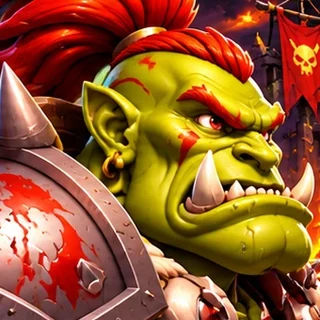
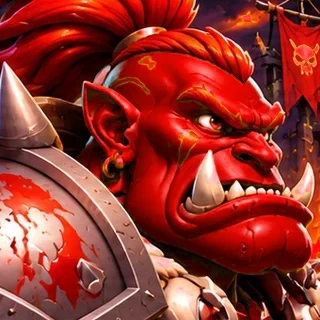
Shooters hit the castle from their range again; synced attack beats; card draw pop animation; cleaner castle cracks drawn on the castle art; visible Paladin dome; Red Orc fully red
Claude-Session: https://claude.ai/code/session_019FHBnxKyTVWzaJqkftQpoS

diff --git a/web/js/render.js b/web/js/render.js
@@ -359,6 +359,37 @@
       for (let i = 0; i < n; i++) { const a = Math.random() * TAU, sp = 160 + Math.random() * 260; this.fx.push({ k: 'spark', x, y, vx: Math.cos(a) * sp, vy: Math.sin(a) * sp - 120, t: 0, d: 0.25 + Math.random() * 0.15 }); }
     }
 
+    // rachaduras desenhadas sobre a própria arte do castelo (só onde há pedra), em 3 etapas
+    crackLayer(im, art, stage) {
+      this.crackCache = this.crackCache || {};
+      const key = art.src + ':' + stage;
+      if (this.crackCache[key]) return this.crackCache[key];
+      const W = Math.round(art.w), H = Math.round(art.h), c = document.createElement('canvas'); c.width = W; c.height = H;
+      const g = c.getContext('2d');
+      let seed = 7; const rnd = () => ((seed = (seed * 16807) % 2147483647) / 2147483647);
+      // pontos de partida na parede da frente (abaixo da sacada), proporcionais ao tamanho da arte
+      const starts = [[0.42, 0.56], [0.28, 0.72], [0.55, 0.7], [0.2, 0.5], [0.48, 0.84], [0.33, 0.62]];
+      const crack = (x, y, ang, len, w, depth) => {
+        let px = x, py = y;
+        const pts = [[px, py]];
+        const n = 6 + Math.floor(rnd() * 4);
+        for (let i = 0; i < n; i++) { ang += (rnd() - 0.5) * 0.9; px += Math.cos(ang) * len / n; py += Math.sin(ang) * len / n; pts.push([px, py]); }
+        for (const [col, lw, dx, dy] of [['rgba(255,235,210,.35)', w + 2, 1.5, 1.5], ['rgba(20,10,18,.9)', w, 0, 0]]) {
+          for (let i = 1; i < pts.length; i++) { // fica mais fina na ponta
+            g.strokeStyle = col; g.lineCap = 'round'; g.lineWidth = Math.max(0.8, lw * (1 - i / pts.length));
+            g.beginPath(); g.moveTo(pts[i - 1][0] + dx, pts[i - 1][1] + dy); g.lineTo(pts[i][0] + dx, pts[i][1] + dy); g.stroke();
+          }
+        }
+        if (depth > 0) for (let k = 0; k < 2; k++) { const p = pts[2 + Math.floor(rnd() * (pts.length - 3))]; crack(p[0], p[1], ang + (rnd() < 0.5 ? -1 : 1) * (0.6 + rnd() * 0.5), len * 0.5, w * 0.6, depth - 1); }
+      };
+      const n = stage * 2;
+      for (let i = 0; i < n; i++) { const [sx, sy] = starts[i]; crack(sx * W, sy * H, Math.PI * (0.35 + rnd() * 0.5), H * (0.1 + rnd() * 0.06), 5, 2); }
+      // escurecido leve (fuligem) nas etapas mais graves
+      if (stage >= 2) { const gr = g.createRadialGradient(W * 0.4, H * 0.65, 0, W * 0.4, H * 0.65, W * 0.5); gr.addColorStop(0, 'rgba(30,20,25,' + 0.12 * stage + ')'); gr.addColorStop(1, 'rgba(30,20,25,0)'); g.fillStyle = gr; g.fillRect(0, 0, W, H); }
+      g.globalCompositeOperation = 'destination-in'; g.drawImage(im, 0, 0, W, H); // só dentro do castelo
+      return (this.crackCache[key] = c);
+    }
+
     // silhueta branca do quadro atual (piscada de dano)
     whiteFrame(sheet, sx, sy, w, h) {
       if (!this.tint) { this.tint = document.createElement('canvas'); }
@@ -515,21 +546,16 @@
         const im = BB.art.image(art.src);
         if (im.complete && im.naturalWidth) {
           g.save(); if (owner === 1) { g.translate(AW, 0); g.scale(-1, 1); }
-          g.drawImage(im, art.x, art.y, art.w, art.h); g.restore();
+          g.drawImage(im, art.x, art.y, art.w, art.h);
+          const st = (this.crack && this.crack[owner]) || 0;
+          if (st > 0) { const cv = this.crackLayer(im, art, st); if (cv) g.drawImage(cv, art.x, art.y, art.w, art.h); }
+          g.restore();
         }
         const gx = art.x + art.gate[0], gy = art.y + art.gate[1];
         c.gx = owner === 1 ? AW - gx : gx; c.gy = gy;
       }
       const w = c.x1 - c.x0, h = c.y1 - c.y0, cx = (c.x0 + c.x1) / 2;
       const crack = (this.crack && this.crack[owner]) || 0;
-      if (crack > 0) { // rachaduras na parede do castelo
-        g.save(); if (owner === 1) { g.translate(AW, 0); g.scale(-1, 1); }
-        g.strokeStyle = 'rgba(25,15,20,.85)'; g.lineWidth = 4; g.lineCap = 'round';
-        const C = [[[170, 420], [195, 470], [180, 520], [210, 575]], [[90, 560], [130, 600], [115, 650], [150, 700]], [[250, 300], [230, 350], [262, 395], [240, 440]],
-          [[60, 380], [95, 420], [80, 470]], [[300, 520], [280, 570], [305, 610]], [[140, 250], [165, 290], [150, 330]]];
-        for (let i = 0; i < Math.min(C.length, crack * 2); i++) { g.beginPath(); C[i].forEach(([x, y], j) => (j ? g.lineTo(x, y) : g.moveTo(x, y))); g.stroke(); }
-        g.restore();
-      }
       if (this.castleHit[owner] > 0) { // pisca em vermelho/branco ao ser atingido
         g.save(); g.globalCompositeOperation = 'lighter';
         const gr = g.createRadialGradient(c.gx, c.gy - 60, 10, c.gx, c.gy - 60, 220);
@@ -858,8 +884,14 @@
       g.save(); g.globalAlpha = alpha;
       if (u.def.ability === 'ShieldDome' && v.dying < 0) { // cúpula do Paladino no chão
         const l = ARENA.lanes[u.lane], rr = ((u.def.abilityRadius || 6) / 100) * (l.xR - l.xL);
-        g.fillStyle = 'rgba(255,230,138,.12)'; g.strokeStyle = 'rgba(255,230,138,.55)'; g.lineWidth = 2;
-        g.beginPath(); g.ellipse(v.x, v.y, rr, rr * 0.28, 0, 0, TAU); g.fill(); g.stroke();
+        const pulse = 0.85 + 0.15 * Math.sin(this.t * 3);
+        g.save(); g.fillStyle = 'rgba(255,224,120,' + 0.16 * pulse + ')'; g.strokeStyle = 'rgba(255,224,120,' + 0.85 * pulse + ')'; g.lineWidth = 3; g.setLineDash([12, 8]);
+        g.beginPath(); g.ellipse(v.x, v.y, rr, rr * 0.3, 0, 0, TAU); g.fill(); g.stroke(); g.setLineDash([]);
+        // cúpula transparente
+        const dh = Math.min(rr * 1.1, bodyPx * 1.3), grd = g.createLinearGradient(0, v.y - dh, 0, v.y);
+        grd.addColorStop(0, 'rgba(255,240,170,' + 0.05 * pulse + ')'); grd.addColorStop(1, 'rgba(255,224,120,' + 0.18 * pulse + ')');
+        g.fillStyle = grd; g.beginPath(); g.ellipse(v.x, v.y, rr, dh, 0, Math.PI, TAU); g.fill();
+        g.strokeStyle = 'rgba(255,240,170,' + 0.5 * pulse + ')'; g.lineWidth = 2; g.stroke(); g.restore();
       }
       // sombra e marca do time no chão
       g.save();

diff --git a/web/js/sim.js b/web/js/sim.js
@@ -265,12 +265,16 @@
         x: Math.min(this.L - Math.min(B.spawnOffset, B.castleFront), Math.max(Math.min(B.spawnOffset, B.castleFront), x)), // nasce atrás da linha de ataque
         maxHp: def.hp * mult, hp: def.hp * mult, damage: def.damage * mult,
         abilityPower: (def.abilityValue || 0) * (def.ability === 'HealAura' || def.ability === 'Regen' ? mult : 1),
-        attackCd: def.attackInterval * 0.5, abilityTimer: 0, deploy: B.deployDelay, life: def.lifetime || 0,
+        attackCd: 0, abilityTimer: 0, deploy: B.deployDelay, life: def.lifetime || 0,
         shield: 0, shieldTime: 0, stun: 0, slowTime: 0, slow: 1, poisonDps: 0, poisonTime: 0,
         rebirthUsed: false, expired: false, state: 'Deploying', targetId: 0,
         get alive() { return this.hp > 0; }, get flying() { return !!this.def.flying; }, get dir() { return dirOf(this.owner); },
       };
       u.baseDamage = u.damage; u.size = 1;
+      { // golpes sincronizados: o primeiro ataque cai na próxima "batida" do relógio da partida (todos batem juntos)
+        const I = def.attackInterval || 1, tEnd = this.time + B.deployDelay;
+        u.attackCd = Math.ceil(tEnd / I - 1e-6) * I - tEnd;
+      }
       this.units.push(u);
       this.emit('UnitSpawned', owner, { unitId: u.id, lane, x: u.x, id: def.id });
       if (def.ability === 'Hex') this.hexLane(u);
@@ -350,7 +354,7 @@
       }
       const front = this.castleFront(1 - u.owner);
       const dist = (front - u.x) * u.dir;
-      const reach = Math.min(d.range, this.B.castleReach || 99); // castelo: todos chegam até a divisa para atacar
+      const reach = d.range; // cada tropa ataca o castelo de acordo com o próprio alcance (a divisa é a frente do castelo)
       if (dist <= reach + 0.01) {
         u.state = 'AttackingCastle'; u.targetId = 0;
         if (u.attackCd <= 0) {
@@ -361,7 +365,7 @@
         }
         return;
       }
-      if (u.attackCd < 0) u.attackCd = 0;
+      if (u.attackCd < 0) { const I = d.attackInterval || 1; u.attackCd += Math.ceil(-u.attackCd / I) * I; } // sem alvo: segue no ritmo da batida
       if (d.moveSpeed <= 0) { u.state = 'Idle'; return; }
       u.state = 'Moving';
       u.x += u.dir * Math.min(d.moveSpeed * (this.B.moveSpeedScale || 1) * moveMult * dt, Math.max(0, dist - reach));

diff --git a/web/js/battle.js b/web/js/battle.js
@@ -186,10 +186,14 @@
       const key = me.deck.hand.join(',');
       if (key === this.handKey) return;
       this.handKey = key;
+      const prevIds = this.prevHand || null; this.prevHand = me.deck.hand.slice();
+      this.lastHand = prevIds;
       this.el.slots.forEach((slot, i) => {
         const id = me.deck.hand[i];
         if (!id) { slot.innerHTML = '<div class="hb-empty"></div>'; return; }
+        const isNew = this.lastHand && !this.lastHand.includes(id + '#' + i) && this.lastHand.indexOf(id) < 0;
         slot.innerHTML = BB.ui.cardHtml(BB.content.card(id), BB.Progress.owned(BB.profile, id), { level: true, attrs: 'data-i="' + i + '"' });
+        if (isNew) slot.firstElementChild.classList.add('drawn'); // carta comprada: sobe um pouco e assenta no lugar
         slot.firstElementChild.addEventListener('pointerdown', (e) => { e.preventDefault(); this.selectCard(i, e); });
       });
     }

diff --git a/web/css/style.css b/web/css/style.css
@@ -304,3 +304,7 @@ img { -webkit-user-drag: none; pointer-events: none; }
 .ci-row small { display: block; color: #e9e3ff; font-weight: 800; font-size: .9rem; }
 .ci-row b { font-size: 1.3rem; }
 .ci-desc { margin-top: 1rem; background: rgba(0,0,0,.2); border-radius: .6rem; padding: .8rem; text-align: center; font-weight: 800; }
+
+/* carta comprada: sobe e assenta */
+@keyframes cardDraw { 0% { transform: translateY(60%) scale(.7); opacity: 0; } 45% { transform: translateY(-28%) scale(1.08); opacity: 1; } 75% { transform: translateY(4%) scale(.98); } 100% { transform: none; } }
+.hb-slot .card.drawn { animation: cardDraw .55s cubic-bezier(.2,.8,.3,1.2); }

diff --git a/web/js/data.js b/web/js/data.js
@@ -24,7 +24,6 @@ BB.CONTENT = {
   "laneLength": 100,
   "spawnOffset": 4,
   "castleFront": 6,
-  "castleReach": 2,
   "castleHp": 6000,
   "wallHp": 0,
   "castleAttackDamage": 0,

diff --git a/tools/extract-grid.py b/tools/extract-grid.py
@@ -33,6 +33,31 @@ def key(a):
     return np.dstack([r, g, b, al * 255]).clip(0, 255).astype(np.uint8)
 
 
+# troca de cor: (faixa de matiz de origem, matiz destino) — ex.: Orc Vermelho com a pele toda vermelha
+RECOLOR = {'red_orc': ((0.115, 0.47), 0.005)}
+
+
+def recolor(img, rng, hue):
+    """Troca a matiz das cores da faixa `rng` por `hue` com transição suave (sem manchas)."""
+    a = np.asarray(img.convert('RGBA')).astype(np.float32) / 255
+    rgb = a[..., :3]
+    mx, mn = rgb.max(axis=2), rgb.min(axis=2); d = mx - mn + 1e-6
+    r, g, b = rgb[..., 0], rgb[..., 1], rgb[..., 2]
+    h = np.where(mx == r, ((g - b) / d) % 6, np.where(mx == g, (b - r) / d + 2, (r - g) / d + 4)) / 6
+    s = d / (mx + 1e-6)
+    lo, hi = rng
+    w = np.clip((h - (lo - 0.03)) / 0.03, 0, 1) * np.clip(((hi + 0.03) - h) / 0.03, 0, 1) * np.clip((s - 0.08) / 0.12, 0, 1)
+    v = mx
+    hh = np.full_like(h, hue) % 1.0
+    i = np.floor(hh * 6); f = hh * 6 - i; ss = np.clip(s * 1.05, 0, 1)
+    p_ = v * (1 - ss); q = v * (1 - f * ss); t = v * (1 - (1 - f) * ss)
+    i = i.astype(int) % 6
+    nr = np.choose(i, [v, q, p_, p_, t, v]); ng = np.choose(i, [t, v, v, q, p_, p_]); nb = np.choose(i, [p_, p_, t, v, v, q])
+    out = rgb.copy()
+    out[..., 0] = r * (1 - w) + nr * w; out[..., 1] = g * (1 - w) + ng * w; out[..., 2] = b * (1 - w) + nb * w
+    return Image.fromarray((np.dstack([out, a[..., 3:]]) * 255).clip(0, 255).astype(np.uint8))
+
+
 def fx_mask(c):
     m = c[..., 3] > 40
     lab, n = ndimage.label(ndimage.binary_dilation(m, iterations=2))
@@ -165,6 +190,8 @@ def main():
         for row, fr in enumerate((walk, atk)):
             for i, (f, ax, ay) in enumerate(fr):
                 sheet.alpha_composite(f, (int(i * fw + L - ax), int(row * fh + T - ay)))
+        if uid in RECOLOR:
+            sheet = recolor(sheet, *RECOLOR[uid])
         sheet.save(os.path.join(OUT, uid + '_g.webp'), 'WEBP', quality=90, method=6)
         wb = [-int(max(ax for _, ax, _ in walk)), -int(max(ay for _, _, ay in walk)), int(max(f.width - ax for f, ax, _ in walk)), int(max(f.height - ay for f, _, ay in walk))]
         sprites[uid] = {'w': fw, 'h': fh, 'ax': L, 'ay': T, 'body': BODY, 'walk': len(walk), 'attack': len(atk), 'fps': 8, 'wb': wb, 'blend': 1, 'scale': SCALE.get(uid, 1),
